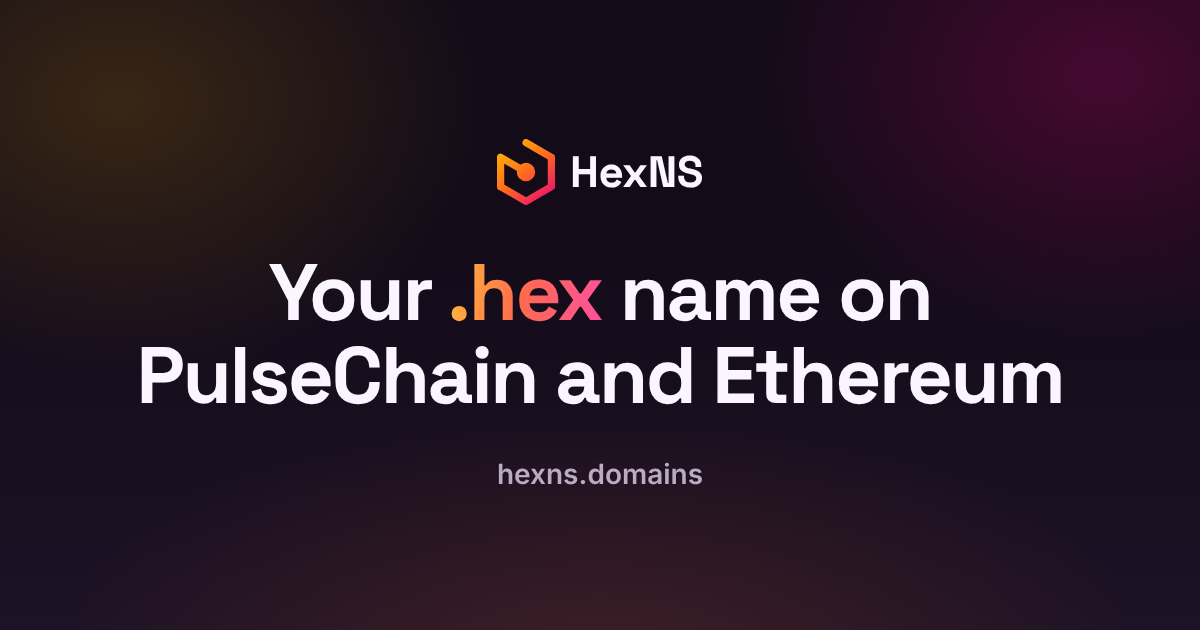
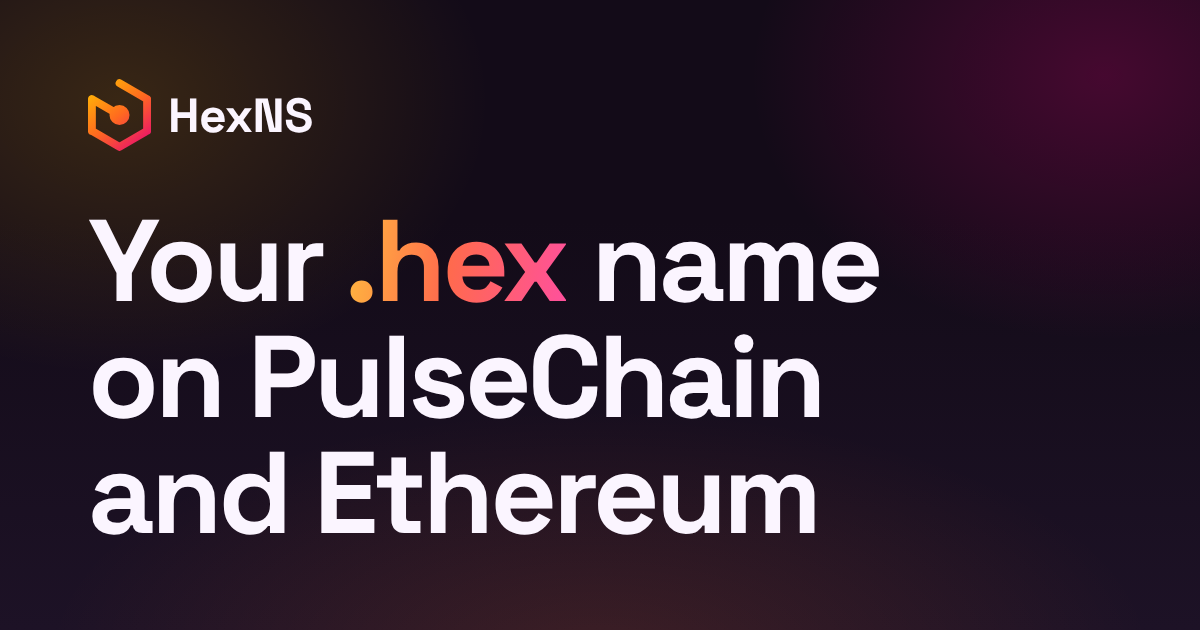
Share picture: left-aligned and larger, without the address
The headline now runs over three lines, "Your .hex name / on PulseChain
/ and Ethereum", at 116px instead of 80px, under a larger HexNS lockup,
all aligned to the left; hexns.domains is gone. With only Space Grotesk
left on the picture, render.cjs checks for that font alone, and the
picture's description in the page tags matches it.

Claude-Session: https://claude.ai/code/session_016j87nKfmdXVZb36Ew8PQHS

diff --git a/brand/share-image/share-image.html b/brand/share-image/share-image.html
@@ -4,17 +4,12 @@
 <meta charset="utf-8">
 <title>HexNS share image</title>
 <!-- The picture shown when someone shares hexns.domains (1200 x 630). render.cjs makes the PNGs
-     from this page; the fonts come from web/node_modules, so run npm ci in web/ first. -->
+     from this page; the font comes from web/node_modules, so run npm ci in web/ first. -->
 <style>
   @font-face {
     font-family: "Space Grotesk";
     src: url("../../web/node_modules/@fontsource-variable/space-grotesk/files/space-grotesk-latin-wght-normal.woff2") format("woff2-variations");
     font-weight: 300 700;
-  }
-  @font-face {
-    font-family: "Inter";
-    src: url("../../web/node_modules/@fontsource-variable/inter/files/inter-latin-wght-normal.woff2") format("woff2-variations");
-    font-weight: 100 900;
   }
 
   /* The site's own colours (web/src/styles.css). */
@@ -47,7 +42,7 @@
   body {
     overflow: hidden;
     color: var(--text);
-    font-family: "Inter", sans-serif;
+    font-family: "Space Grotesk", sans-serif;
     -webkit-font-smoothing: antialiased;
     /* The homepage's wash of HEX colours: yellow top left, pink top right, orange below. */
     background:
@@ -60,33 +55,33 @@
   .frame {
     box-sizing: border-box;
     height: 100%;
+    padding: 0 88px;
     display: flex;
     flex-direction: column;
-    align-items: center;
+    align-items: flex-start;
     justify-content: center;
-    text-align: center;
   }
 
   /* The lockup: the mark 1.5 times the wordmark's size, 0.35 of it apart (brand/README.md). */
   .brand {
     display: flex;
     align-items: center;
-    gap: 15px;
+    gap: 17px;
   }
   .brand span {
     font-family: "Space Grotesk", sans-serif;
-    font-size: 44px;
+    font-size: 48px;
     font-weight: 700;
     letter-spacing: -0.01em;
   }
 
   h1 {
-    margin: 46px 0 0;
+    margin: 52px 0 0;
     font-family: "Space Grotesk", sans-serif;
-    font-size: 80px;
+    font-size: 116px;
     font-weight: 700;
-    letter-spacing: -0.03em;
-    line-height: 1.04;
+    letter-spacing: -0.035em;
+    line-height: 1;
   }
   .grad {
     background: var(--grad-text);
@@ -94,19 +89,12 @@
     background-clip: text;
     color: transparent;
   }
-
-  .url {
-    margin-top: 40px;
-    color: var(--muted);
-    font-size: 28px;
-    font-weight: 600;
-  }
 </style>
 </head>
 <body>
   <div class="frame">
     <div class="brand">
-      <svg width="58" height="66" viewBox="8.748 5.6 46.503 52.8" aria-hidden="true">
+      <svg width="63" height="72" viewBox="8.748 5.6 46.503 52.8" aria-hidden="true">
         <defs>
           <linearGradient id="route" gradientUnits="userSpaceOnUse" x1="10" y1="6" x2="54" y2="58">
             <stop offset="0" stop-color="#FFC400" />
@@ -118,8 +106,7 @@
       </svg>
       <span>HexNS</span>
     </div>
-    <h1>Your <span class="grad">.hex</span> name on<br>PulseChain and Ethereum</h1>
-    <div class="url">hexns.domains</div>
+    <h1>Your <span class="grad">.hex</span> name<br>on PulseChain<br>and Ethereum</h1>
   </div>
 </body>
 </html>

diff --git a/web/app/index.html b/web/app/index.html
@@ -26,13 +26,13 @@
     <meta property="og:image:height" content="630" />
     <meta
       property="og:image:alt"
-      content="The HexNS logo above the words: Your .hex name on PulseChain and Ethereum. hexns.domains"
+      content="The HexNS logo above the words: Your .hex name on PulseChain and Ethereum"
     />
     <meta name="twitter:card" content="summary_large_image" />
     <meta name="twitter:image" content="https://hexns.domains/og-image.png" />
     <meta
       name="twitter:image:alt"
-      content="The HexNS logo above the words: Your .hex name on PulseChain and Ethereum. hexns.domains"
+      content="The HexNS logo above the words: Your .hex name on PulseChain and Ethereum"
     />
     <!-- The HexNS mark, "Route". The SVG is inline so the one-file copy of the site has it too. -->
     <link rel="icon" href="/favicon.ico" sizes="32x32" />

diff --git a/web/index.html b/web/index.html
@@ -26,13 +26,13 @@
     <meta property="og:image:height" content="630" />
     <meta
       property="og:image:alt"
-      content="The HexNS logo above the words: Your .hex name on PulseChain and Ethereum. hexns.domains"
+      content="The HexNS logo above the words: Your .hex name on PulseChain and Ethereum"
     />
     <meta name="twitter:card" content="summary_large_image" />
     <meta name="twitter:image" content="https://hexns.domains/og-image.png" />
     <meta
       name="twitter:image:alt"
-      content="The HexNS logo above the words: Your .hex name on PulseChain and Ethereum. hexns.domains"
+      content="The HexNS logo above the words: Your .hex name on PulseChain and Ethereum"
     />
     <!-- The HexNS mark, "Route". The SVG is inline so the one-file copy of the site has it too. -->
     <link rel="icon" href="/favicon.ico" sizes="32x32" />

diff --git a/brand/README.md b/brand/README.md
@@ -25,9 +25,9 @@ is in `web/src/components/Logo.tsx`.
 
 ## Share picture
 
-`share-image/share-image.html` is the design of the share picture: the logo, the website's
-headline and its address, in the website's colours and fonts. If the headline changes, change that
-page and make the pictures again with `share-image/render.cjs` (how, at its top): it writes
+`share-image/share-image.html` is the design of the share picture: the logo and the website's
+headline, in the website's colours and font. If the headline changes, change that page and make the
+pictures again with `share-image/render.cjs` (how, at its top): it writes
 `web/public/og-image.png` and both pictures here. Sites that show link previews keep the old
 picture for a while; X and Facebook each have a page to make them fetch it again.
 
